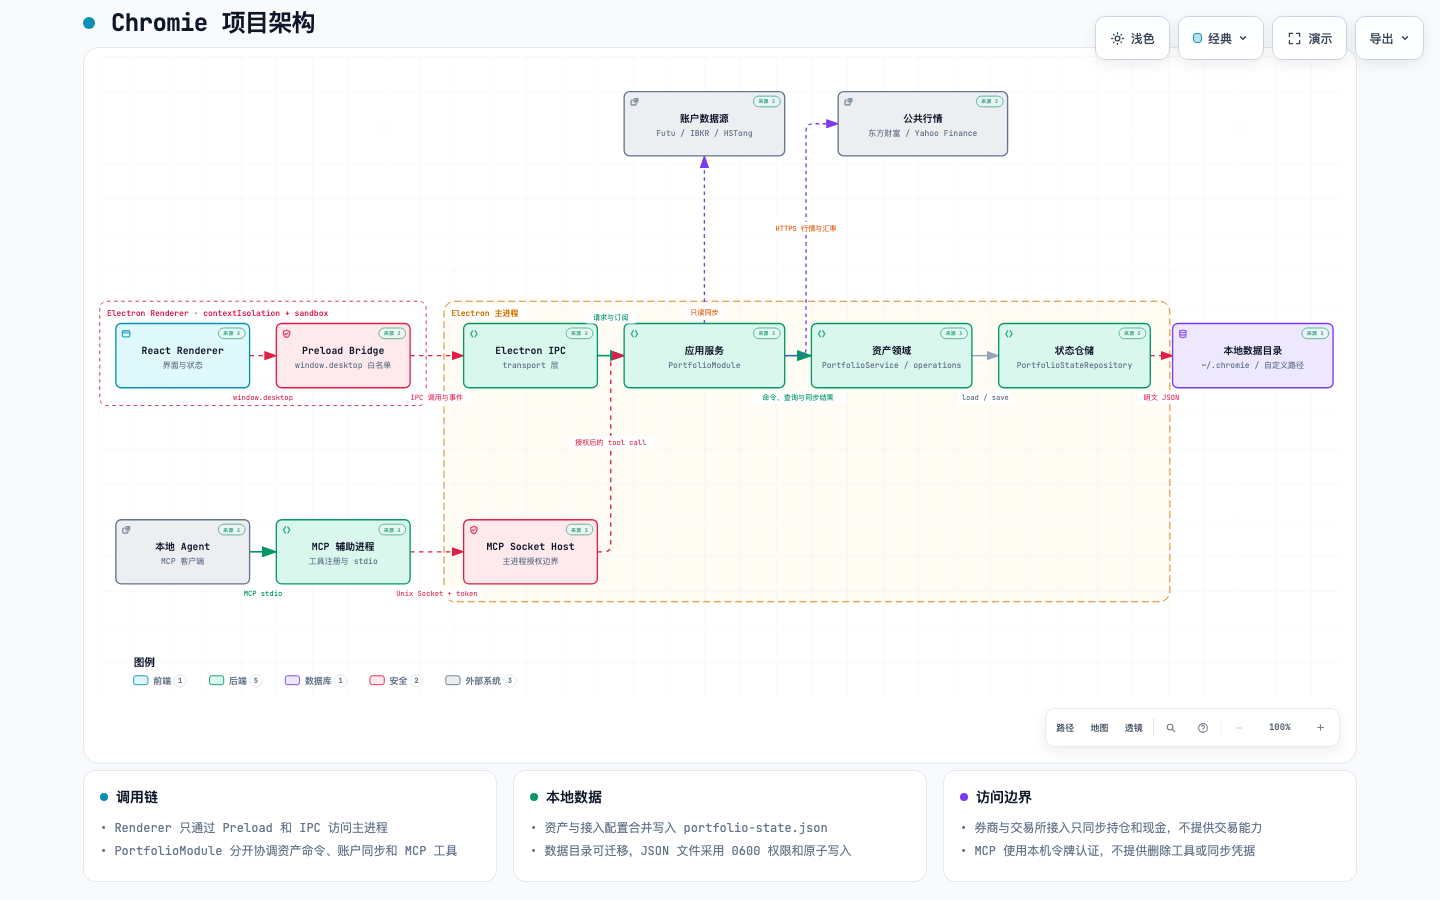
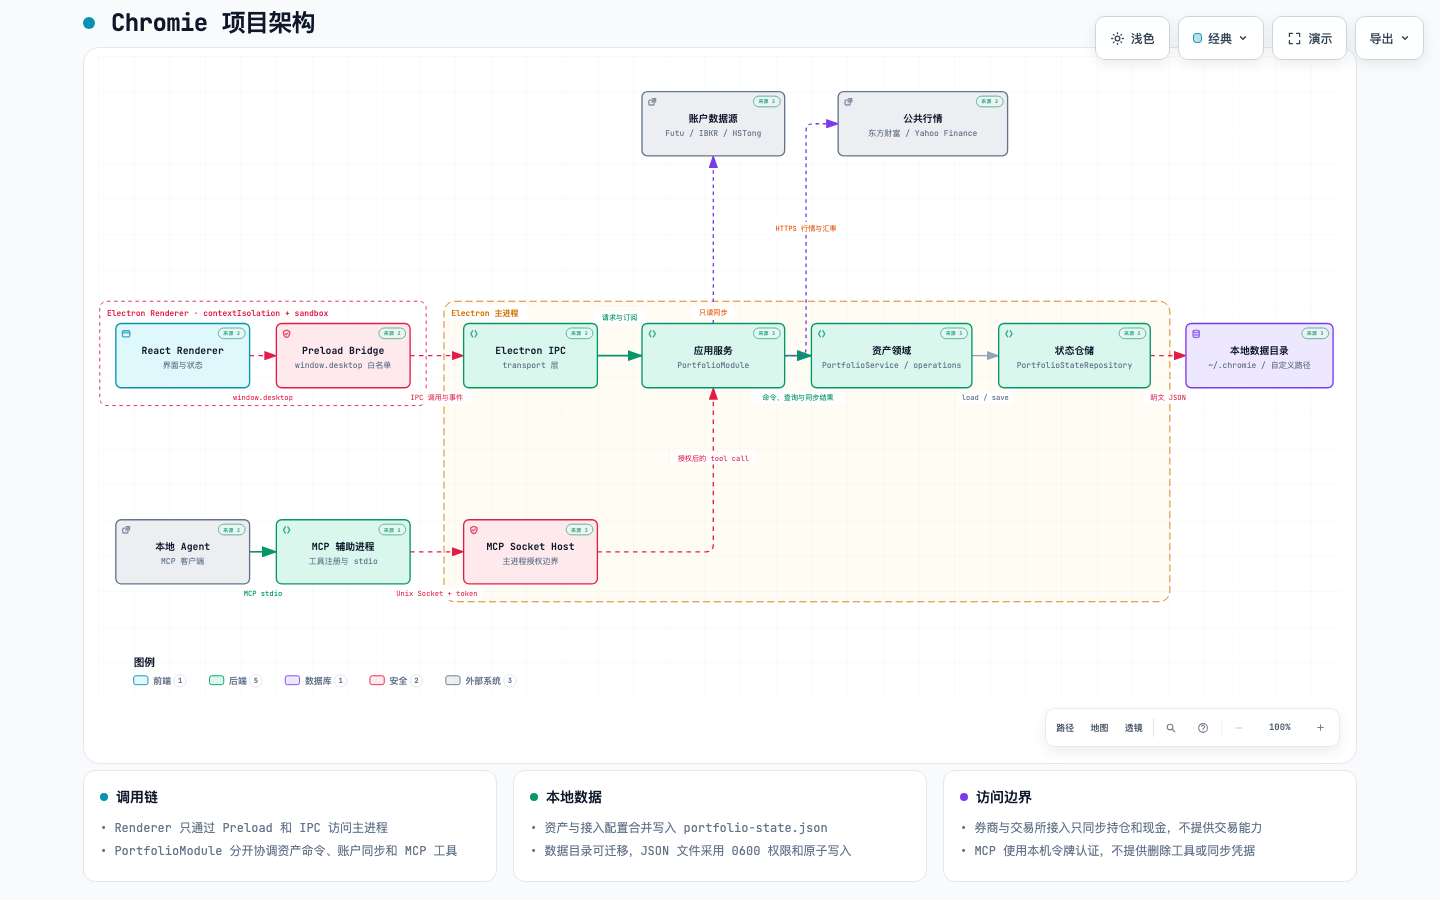
docs: refine architecture diagram routing

diff --git a/chromie-architecture.html b/chromie-architecture.html
@@ -5037,15 +5037,15 @@
         <!-- Connection paths (before components for correct z-order) -->
         <path data-edge-from="renderer" data-edge-to="preload" data-edge-label="window.desktop" data-edge-key="0" data-edge-id="renderer_to_preload" data-composition-points="170,336;200,336" d="M 170 336 L 200 336" class="a-security" stroke-width="1.5" marker-end="url(#arrowhead-security)"/>
         <path data-edge-from="preload" data-edge-to="ipc" data-edge-label="IPC 调用与事件" data-edge-key="1" data-edge-id="preload_to_ipc" data-composition-points="350,336;410,336" d="M 350 336 L 410 336" class="a-security" stroke-width="1.5" marker-end="url(#arrowhead-security)"/>
-        <path data-edge-from="ipc" data-edge-to="app_services" data-edge-label="请求与订阅" data-edge-key="2" data-edge-id="ipc_to_services" data-composition-points="560,336;590,336" d="M 560 336 L 590 336" class="a-emphasis" stroke-width="1.8" marker-end="url(#arrowhead-emphasis)"/>
+        <path data-edge-from="ipc" data-edge-to="app_services" data-edge-label="请求与订阅" data-edge-key="2" data-edge-id="ipc_to_services" data-composition-points="560,336;610,336" d="M 560 336 L 610 336" class="a-emphasis" stroke-width="1.8" marker-end="url(#arrowhead-emphasis)"/>
         <path data-edge-from="app_services" data-edge-to="portfolio_core" data-edge-label="命令、查询与同步结果" data-edge-key="3" data-edge-id="services_to_core" data-composition-points="770,336;800,336" d="M 770 336 L 800 336" class="a-emphasis" stroke-width="1.8" marker-end="url(#arrowhead-emphasis)"/>
         <path data-edge-from="portfolio_core" data-edge-to="state_repository" data-edge-label="load / save" data-edge-key="4" data-edge-id="core_to_repository" data-composition-points="980,336;1010,336" d="M 980 336 L 1010 336" class="a-default" stroke-width="1.5" marker-end="url(#arrowhead)"/>
-        <path data-edge-from="state_repository" data-edge-to="local_store" data-edge-label="明文 JSON" data-edge-key="5" data-edge-id="repository_to_store" data-composition-points="1180,336;1205,336" d="M 1180 336 L 1205 336" class="a-security" stroke-width="1.5" marker-end="url(#arrowhead-security)"/>
-        <path data-edge-from="app_services" data-edge-to="account_sources" data-edge-label="只读同步" data-edge-key="6" data-edge-id="services_to_accounts" data-composition-points="680,300;680,112" d="M 680 300 L 680 112" class="a-dashed" stroke-width="1.5" marker-end="url(#arrowhead-dashed)"/>
+        <path data-edge-from="state_repository" data-edge-to="local_store" data-edge-label="明文 JSON" data-edge-key="5" data-edge-id="repository_to_store" data-composition-points="1180,336;1220,336" d="M 1180 336 L 1220 336" class="a-security" stroke-width="1.5" marker-end="url(#arrowhead-security)"/>
+        <path data-edge-from="app_services" data-edge-to="account_sources" data-edge-label="只读同步" data-edge-key="6" data-edge-id="services_to_accounts" data-composition-points="690,300;690,112" d="M 690 300 L 690 112" class="a-dashed" stroke-width="1.5" marker-end="url(#arrowhead-dashed)"/>
         <path data-edge-from="app_services" data-edge-to="market_apis" data-edge-label="HTTPS 行情与汇率" data-edge-key="7" data-edge-id="services_to_market" data-composition-points="770,336;794,336;794,76;830,76" d="M 770 336 L 786 336 Q 794 336 794 328 L 794 84 Q 794 76 802 76 L 830 76" class="a-dashed" stroke-width="1.5" marker-end="url(#arrowhead-dashed)"/>
         <path data-edge-from="mcp_consumer" data-edge-to="mcp_stdio" data-edge-label="MCP stdio" data-edge-key="8" data-edge-id="consumer_to_stdio" data-composition-points="170,556;200,556" d="M 170 556 L 200 556" class="a-emphasis" stroke-width="1.8" marker-end="url(#arrowhead-emphasis)"/>
         <path data-edge-from="mcp_stdio" data-edge-to="mcp_socket" data-edge-label="Unix Socket + token" data-edge-key="9" data-edge-id="stdio_to_socket" data-composition-points="350,556;410,556" d="M 350 556 L 410 556" class="a-security" stroke-width="1.5" marker-end="url(#arrowhead-security)"/>
-        <path data-edge-from="mcp_socket" data-edge-to="app_services" data-edge-label="授权后的 tool call" data-edge-key="10" data-edge-id="socket_to_services" data-composition-points="560,556;575,556;575,336;590,336" d="M 560 556 L 567.5 556 Q 575 556 575 548.5 L 575 343.5 Q 575 336 582.5 336 L 590 336" class="a-security" stroke-width="1.5" marker-end="url(#arrowhead-security)"/>
+        <path data-edge-from="mcp_socket" data-edge-to="app_services" data-edge-label="授权后的 tool call" data-edge-key="10" data-edge-id="socket_to_services" data-composition-points="560,556;690,556;690,372" d="M 560 556 L 682 556 Q 690 556 690 548 L 690 372" class="a-security" stroke-width="1.5" marker-end="url(#arrowhead-security)"/>
 
         <!-- Components -->
         <g id="node-renderer" data-node-id="renderer" data-node-label="React Renderer" tabindex="0" role="button" aria-label="聚焦React Renderer，界面与状态, Electron Renderer · contextIsolation + sandbox" aria-pressed="false" data-node-kind="frontend" data-node-sublabel="界面与状态" data-node-tag="React 19 + shadcn/ui" data-node-context="Electron Renderer · contextIsolation + sandbox">
@@ -5090,14 +5090,14 @@
 
         <g id="node-app_services" data-node-id="app_services" data-node-label="应用服务" tabindex="0" role="button" aria-label="聚焦应用服务，PortfolioModule, Electron 主进程" aria-pressed="false" data-node-kind="backend" data-node-sublabel="PortfolioModule" data-node-tag="同步、汇率、备份、MCP" data-node-context="Electron 主进程">
           <title>应用服务 · PortfolioModule · Electron 主进程 · 同步、汇率、备份、MCP</title>
-          <rect x="590" y="300" width="180" height="72" rx="6" class="c-mask"/>
-          <rect x="590" y="300" width="180" height="72" rx="6" class="c-backend" stroke-width="1.5"/>
-          <g aria-hidden="true" data-semantic-sigil="backend" class="semantic-sigil s-backend" transform="translate(596 306) scale(0.6875)">
+          <rect x="610" y="300" width="160" height="72" rx="6" class="c-mask"/>
+          <rect x="610" y="300" width="160" height="72" rx="6" class="c-backend" stroke-width="1.5"/>
+          <g aria-hidden="true" data-semantic-sigil="backend" class="semantic-sigil s-backend" transform="translate(616 306) scale(0.6875)">
             <path d="M6 3 3 8l3 5M10 3l3 5-3 5"/>
           </g>
-          <text data-node-label="" data-detail-anchor="" x="680" y="334" class="t-primary" font-size="11" font-weight="600" text-anchor="middle">应用服务</text>
-        <text data-detail="context" x="680" y="350" class="t-muted" font-size="9" text-anchor="middle">PortfolioModule</text>
-        <text data-detail="fine" x="680" y="364" class="t-backend" font-size="7" text-anchor="middle">同步、汇率、备份、MCP</text>
+          <text data-node-label="" data-detail-anchor="" x="690" y="334" class="t-primary" font-size="11" font-weight="600" text-anchor="middle">应用服务</text>
+        <text data-detail="context" x="690" y="350" class="t-muted" font-size="9" text-anchor="middle">PortfolioModule</text>
+        <text data-detail="fine" x="690" y="364" class="t-backend" font-size="7" text-anchor="middle">同步、汇率、备份、MCP</text>
         </g>
 
         <g id="node-portfolio_core" data-node-id="portfolio_core" data-node-label="资产领域" tabindex="0" role="button" aria-label="聚焦资产领域，PortfolioService / operations, Electron 主进程" aria-pressed="false" data-node-kind="backend" data-node-sublabel="PortfolioService / operations" data-node-tag="标签、账户、持仓、快照" data-node-context="Electron 主进程">
@@ -5126,28 +5126,28 @@
 
         <g id="node-local_store" data-node-id="local_store" data-node-label="本地数据目录" tabindex="0" role="button" aria-label="聚焦本地数据目录，~/.chromie / 自定义路径, 架构组件" aria-pressed="false" data-node-kind="database" data-node-sublabel="~/.chromie / 自定义路径" data-node-tag="明文 JSON · 0600" data-node-context="架构组件">
           <title>本地数据目录 · ~/.chromie / 自定义路径 · 架构组件 · 明文 JSON · 0600</title>
-          <rect x="1205" y="300" width="180" height="72" rx="6" class="c-mask"/>
-          <rect x="1205" y="300" width="180" height="72" rx="6" class="c-database" stroke-width="1.5"/>
-          <g aria-hidden="true" data-semantic-sigil="database" class="semantic-sigil s-database" transform="translate(1211 306) scale(0.6875)">
+          <rect x="1220" y="300" width="165" height="72" rx="6" class="c-mask"/>
+          <rect x="1220" y="300" width="165" height="72" rx="6" class="c-database" stroke-width="1.5"/>
+          <g aria-hidden="true" data-semantic-sigil="database" class="semantic-sigil s-database" transform="translate(1226 306) scale(0.6875)">
             <ellipse cx="8" cy="4" rx="5" ry="2"/>
             <path d="M3 4v8c0 1.1 2.2 2 5 2s5-.9 5-2V4M3 8c0 1.1 2.2 2 5 2s5-.9 5-2"/>
           </g>
-          <text data-node-label="" data-detail-anchor="" x="1295" y="334" class="t-primary" font-size="11" font-weight="600" text-anchor="middle">本地数据目录</text>
-        <text data-detail="context" x="1295" y="350" class="t-muted" font-size="9" text-anchor="middle">~/.chromie / 自定义路径</text>
-        <text data-detail="fine" x="1295" y="364" class="t-database" font-size="7" text-anchor="middle">明文 JSON · 0600</text>
+          <text data-node-label="" data-detail-anchor="" x="1302.5" y="334" class="t-primary" font-size="11" font-weight="600" text-anchor="middle">本地数据目录</text>
+        <text data-detail="context" x="1302.5" y="350" class="t-muted" font-size="9" text-anchor="middle">~/.chromie / 自定义路径</text>
+        <text data-detail="fine" x="1302.5" y="364" class="t-database" font-size="7" text-anchor="middle">明文 JSON · 0600</text>
         </g>
 
         <g id="node-account_sources" data-node-id="account_sources" data-node-label="账户数据源" tabindex="0" role="button" aria-label="聚焦账户数据源，Futu / IBKR / HSTong, 架构组件" aria-pressed="false" data-node-kind="external" data-node-sublabel="Futu / IBKR / HSTong" data-node-tag="OKX / Binance" data-node-context="架构组件">
           <title>账户数据源 · Futu / IBKR / HSTong · 架构组件 · OKX / Binance</title>
-          <rect x="590" y="40" width="180" height="72" rx="6" class="c-mask"/>
-          <rect x="590" y="40" width="180" height="72" rx="6" class="c-external" stroke-width="1.5"/>
-          <g aria-hidden="true" data-semantic-sigil="external" class="semantic-sigil s-external" transform="translate(596 46) scale(0.6875)">
+          <rect x="610" y="40" width="160" height="72" rx="6" class="c-mask"/>
+          <rect x="610" y="40" width="160" height="72" rx="6" class="c-external" stroke-width="1.5"/>
+          <g aria-hidden="true" data-semantic-sigil="external" class="semantic-sigil s-external" transform="translate(616 46) scale(0.6875)">
             <rect x="2.5" y="5" width="8.5" height="8" rx="1.5"/>
             <path d="M8 2.5h5.5V8M13.5 2.5 7.5 8.5"/>
           </g>
-          <text data-node-label="" data-detail-anchor="" x="680" y="74" class="t-primary" font-size="11" font-weight="600" text-anchor="middle">账户数据源</text>
-        <text data-detail="context" x="680" y="90" class="t-muted" font-size="9" text-anchor="middle">Futu / IBKR / HSTong</text>
-        <text data-detail="fine" x="680" y="104" class="t-external" font-size="7" text-anchor="middle">OKX / Binance</text>
+          <text data-node-label="" data-detail-anchor="" x="690" y="74" class="t-primary" font-size="11" font-weight="600" text-anchor="middle">账户数据源</text>
+        <text data-detail="context" x="690" y="90" class="t-muted" font-size="9" text-anchor="middle">Futu / IBKR / HSTong</text>
+        <text data-detail="fine" x="690" y="104" class="t-external" font-size="7" text-anchor="middle">OKX / Binance</text>
         </g>
 
         <g id="node-market_apis" data-node-id="market_apis" data-node-label="公共行情" tabindex="0" role="button" aria-label="聚焦公共行情，东方财富 / Yahoo Finance, 架构组件" aria-pressed="false" data-node-kind="external" data-node-sublabel="东方财富 / Yahoo Finance" data-node-tag="Coinbase 汇率与数字资产" data-node-context="架构组件">
@@ -5211,8 +5211,8 @@
           <text x="380" y="386" class="t-security" font-size="8" text-anchor="middle">IPC 调用与事件</text>
         </g>
         <g data-detail="context" data-edge-from="ipc" data-edge-to="app_services" data-edge-label="请求与订阅" data-edge-key="2" data-edge-id="ipc_to_services">
-          <rect x="546" y="286" width="58" height="14" rx="3" class="c-mask"/>
-          <text x="575" y="296" class="t-backend" font-size="8" text-anchor="middle">请求与订阅</text>
+          <rect x="556" y="286" width="58" height="14" rx="3" class="c-mask"/>
+          <text x="585" y="296" class="t-backend" font-size="8" text-anchor="middle">请求与订阅</text>
         </g>
         <g data-detail="context" data-edge-from="app_services" data-edge-to="portfolio_core" data-edge-label="命令、查询与同步结果" data-edge-key="3" data-edge-id="services_to_core">
           <rect x="732" y="376" width="106" height="14" rx="3" class="c-mask"/>
@@ -5223,12 +5223,12 @@
           <text x="995" y="386" class="t-muted" font-size="8" text-anchor="middle">load / save</text>
         </g>
         <g data-detail="context" data-edge-from="state_repository" data-edge-to="local_store" data-edge-label="明文 JSON" data-edge-key="5" data-edge-id="repository_to_store">
-          <rect x="1165.9" y="376" width="53.199999999999996" height="14" rx="3" class="c-mask"/>
-          <text x="1192.5" y="386" class="t-security" font-size="8" text-anchor="middle">明文 JSON</text>
+          <rect x="1173.4" y="376" width="53.199999999999996" height="14" rx="3" class="c-mask"/>
+          <text x="1200" y="386" class="t-security" font-size="8" text-anchor="middle">明文 JSON</text>
         </g>
         <g data-detail="context" data-edge-from="app_services" data-edge-to="account_sources" data-edge-label="只读同步" data-edge-key="6" data-edge-id="services_to_accounts">
-          <rect x="655.8" y="280" width="48.4" height="14" rx="3" class="c-mask"/>
-          <text x="680" y="290" class="t-messagebus" font-size="8" text-anchor="middle">只读同步</text>
+          <rect x="665.8" y="280" width="48.4" height="14" rx="3" class="c-mask"/>
+          <text x="690" y="290" class="t-messagebus" font-size="8" text-anchor="middle">只读同步</text>
         </g>
         <g data-detail="context" data-edge-from="app_services" data-edge-to="market_apis" data-edge-label="HTTPS 行情与汇率" data-edge-key="7" data-edge-id="services_to_market">
           <rect x="750.6" y="186" width="86.8" height="14" rx="3" class="c-mask"/>
@@ -5243,8 +5243,8 @@
           <text x="380" y="606" class="t-security" font-size="8" text-anchor="middle">Unix Socket + token</text>
         </g>
         <g data-detail="context" data-edge-from="mcp_socket" data-edge-to="app_services" data-edge-label="授权后的 tool call" data-edge-key="10" data-edge-id="socket_to_services">
-          <rect x="526.8" y="426" width="96.39999999999999" height="14" rx="3" class="c-mask"/>
-          <text x="575" y="436" class="t-security" font-size="8" text-anchor="middle">授权后的 tool call</text>
+          <rect x="641.8" y="444" width="96.39999999999999" height="14" rx="3" class="c-mask"/>
+          <text x="690" y="454" class="t-security" font-size="8" text-anchor="middle">授权后的 tool call</text>
         </g>
 
         <!-- Boundary labels (foreground masks keep routes out of titles) -->
